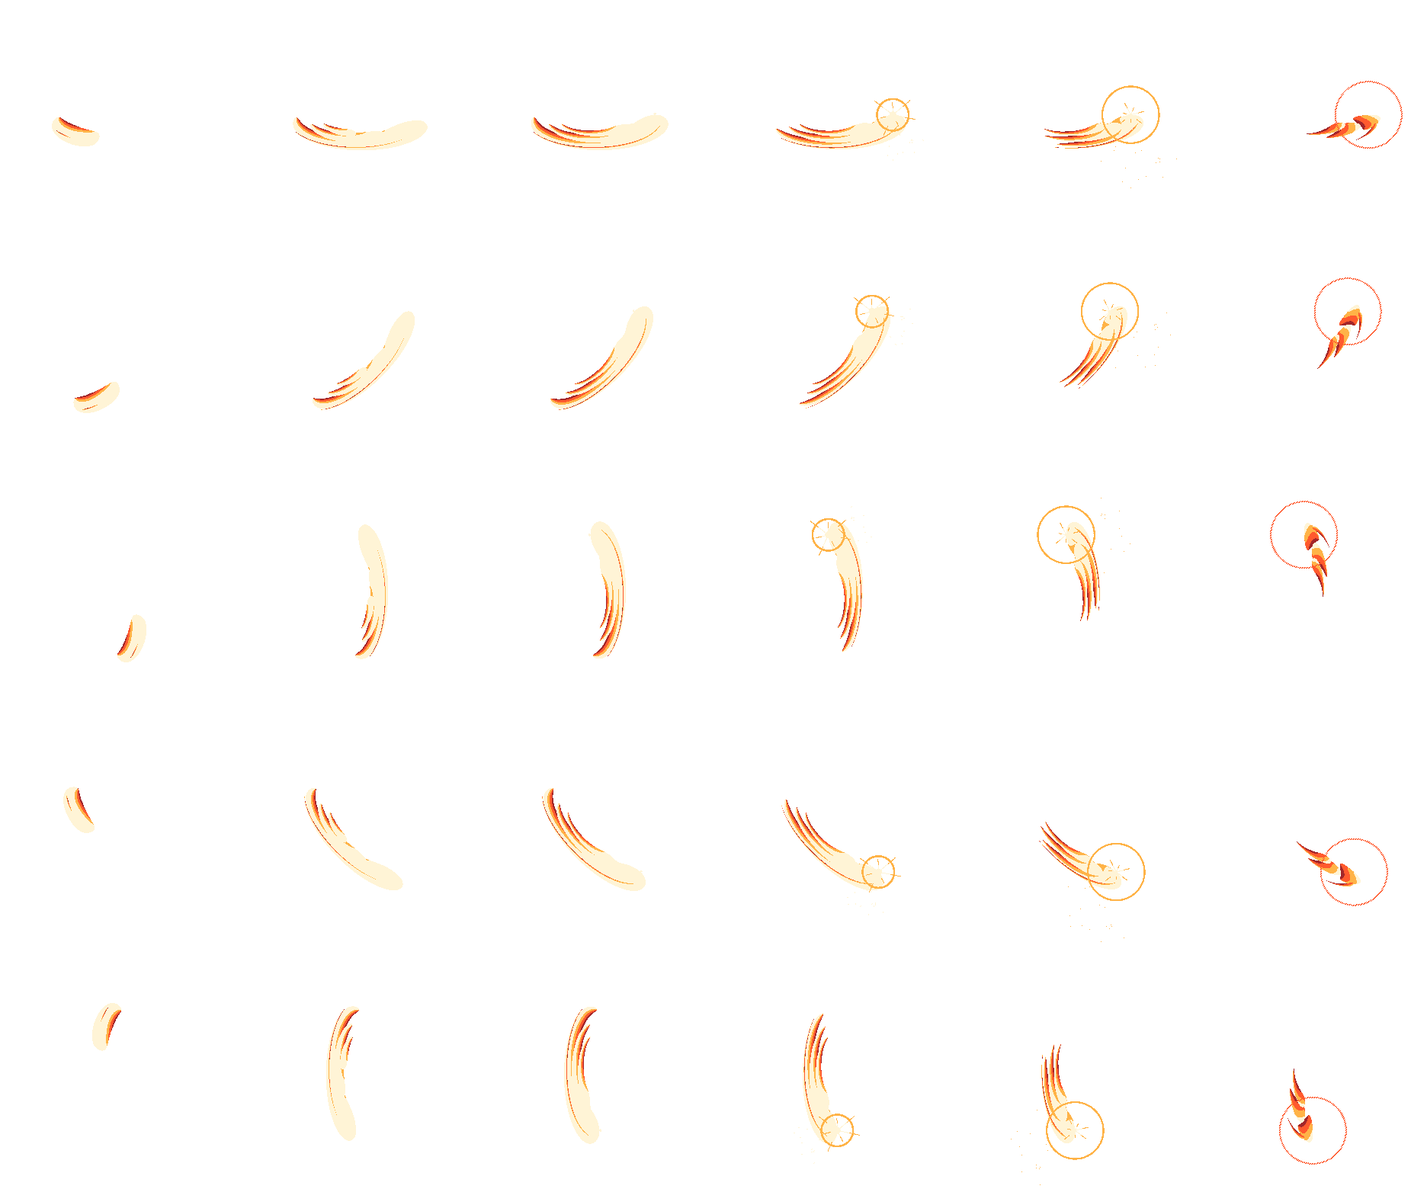
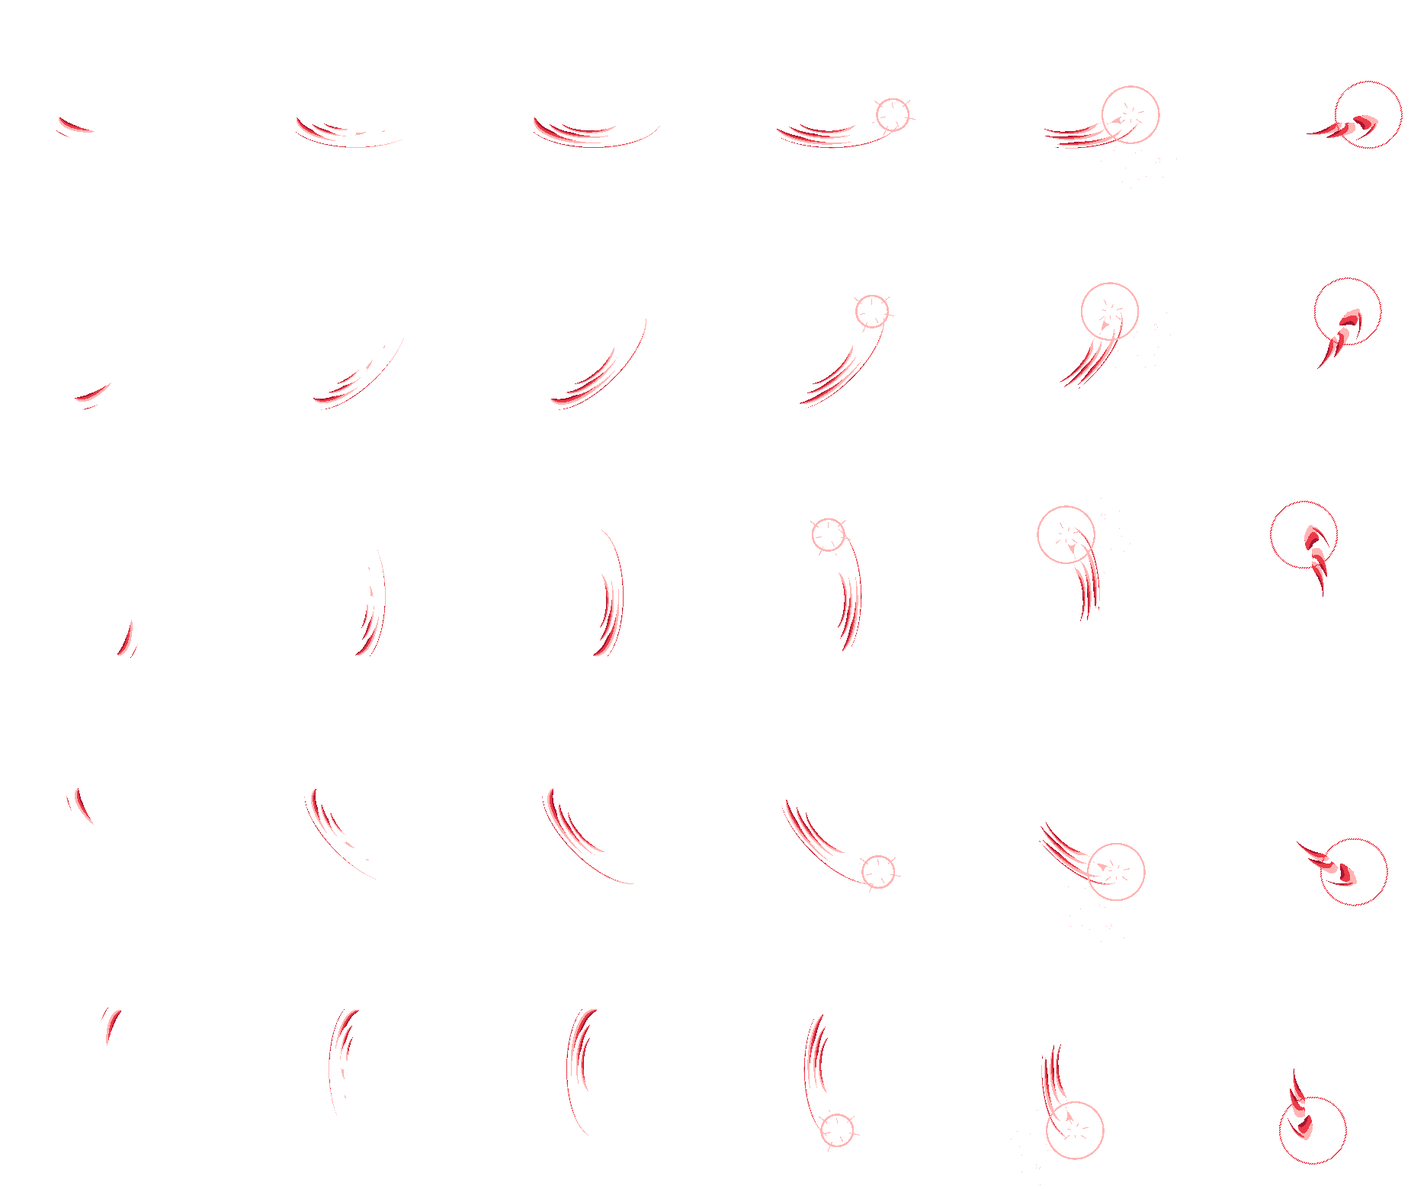
이펙트 v8 4차: 위험 구간 레드, 대시 색이 게이지·강화 단계를 따름, 작은 별 섬광, 처형·궁극기 블러

diff --git a/src/weapon.py b/src/weapon.py
@@ -395,6 +395,7 @@ class DashExecution:
         effects.spawn_ring(ex, ey, EXEC_COLOR, radius_max=190, life=0.3)
         effects.spawn_impact(ex, ey, 1.0, 0.0, 18, EXEC_COLOR, big=True)
         effects.spawn_flare(ex, ey, EXEC_COLOR, big=True, line=True)            # v8: 큰 별 섬광 + 화면을 가르는 붉은 빛줄기
+        effects.spawn_blur(ex, ey, EXEC_COLOR, p)                               # 가로로 번지는 블러
         effects.add_trauma(config.SHAKE_FINISHER * 1.5)
         effects.float_text(ex, ey + 120, '처형!', EXEC_COLOR, big=True, life=0.7)
         game_world.add_object(DashStreak((ex - 300, ey, ex + 300, ey), life=0.45, width=22), game_world.LAYER_EFFECT)
@@ -620,9 +621,10 @@ class Pipe:
         if big:                                          # 강한 공격: X자 베기 자국 두 개 + 퍼지는 고리 + 별 섬광(v8)
             effects.spawn_slash_marks(ex, ey, ex - p.x, ey - p.center[1], fx['damage_color'], big=True, count=2)
             effects.spawn_ring(ex, ey, fx['damage_color'])
-            effects.spawn_flare(ex, ey, color or fx['damage_color'])
+            effects.spawn_flare(ex, ey, color or effects.zone_glow(p))
         else:                                            # 맞을 때마다 적을 가로지르는 베기 자국 (다단 히트가 하나하나 보이게)
             effects.spawn_slash_marks(ex, ey, ex - p.x, ey - p.center[1], fx['damage_color'])
+            effects.spawn_flare(ex, ey, color or effects.zone_glow(p), small=True)      # v8: 작은 별 섬광 (대시 화풍)
         effects.request_hit_stop(config.HIT_STOP * stop * fx['stop'])
         effects.spawn_bloom(ex, ey, fx['damage_color'], big=big, strength=0.9 if big else 0.6)   # v7 빛 번짐
         p.swing_connected = True                         # 이번 휘두르기가 맞았다: 몸은 젖힘으로 되돌아가지 않는다
@@ -915,6 +917,13 @@ class Pipe:
         self.pass_hit = set()
         self.resolve_dash_strike(enhanced)               # 막 끝난 직후: 지나온 길을 한 번에 벤다
 
+    @property
+    def dash_color(self):
+        """이번 대시 공격의 색: 강화 일격이면 강화 단계 색, 아니면 게이지 구간 색."""
+        if self.owner.dash_strike_enhanced or self.owner.gauge.enhanced:
+            return config.ENHANCE_LEVEL_COLOR[max(1, min(3, self.level or self.owner.gauge.enhance_level))]
+        return config.ZONE_GLOW.get(self.owner.gauge.zone, config.ZONE_GLOW['NORMAL'])
+
     def _dash_strike_stats(self, enhanced):
         """대시 평타의 (반폭, 피해, 이펙트)."""
         import mutations
@@ -936,8 +945,11 @@ class Pipe:
                   shake=1.8 if enhanced else 1.2, blast=enhanced)
         effects.spawn_slash_marks(ex, ey, dx, dy, (255, 255, 255), big=True)   # 지나가며 긋는 큰 베기 자국
         variant, flip = effects.slash_variant(dx, dy)
-        effects.spawn('pipe-slash-enhanced3', ex - dx * 40, ey - dy * 40, flip=flip, duration=0.26, variant=variant)   # 적을 감싸는 큰 진홍 초승달
-        effects.spawn_flare(ex, ey, EXEC_COLOR)                                 # 별 섬광 + 큰 붉은 빛 (v8)
+        sheet = (('pipe-slash-enhanced' + effects.enh_suffix()) if enhanced else
+                 {'NORMAL': 'pipe-slash-awake', 'DEAD': 'pipe-slash-fade', 'OVERLOAD': 'pipe-slash-critical'}.get(
+                     self.owner.gauge.zone, config.ZONE_FX[self.owner.gauge.zone]['slash']))
+        effects.spawn(sheet, ex - dx * 40, ey - dy * 40, flip=flip, duration=0.26, variant=variant)   # 적을 감싸는 큰 초승달 (구간·강화 색)
+        effects.spawn_flare(ex, ey, self.dash_color)                           # 별 섬광 + 큰 빛 (구간·강화 색, 위험은 레드)
         return True
 
     def _dash_pass(self):
@@ -2411,6 +2423,7 @@ class Ultimate:
         p.invuln_left = max(p.invuln_left, config.ULT_INVULN)
         p.steady_left = max(p.steady_left, config.ULT_INVULN)   # 무적이지만 깜빡이지 않는다
         assets.play_sound('ult_cast')
+        effects.spawn_blur(*p.center, self.color, p)                            # 시전 순간에도 블러
         effects.float_text(p.x, p.y + config.PLAYER_HB_H + 70, self.name, self.color, big=True, life=0.9)
         game_world.add_object(ExecDim(color=(6, 8, 26), strength=config.ULT_DIM * 2, life=0.7), game_world.LAYER_TILES)
         self._nova(*p.center, duration=0.4)
@@ -2454,6 +2467,7 @@ class Ultimate:
         effects.request_flash(0.06)
         effects.add_trauma(0.8)
         effects.spawn_flare(cx, cy, self.color, big=True, line=True)            # v8: 큰 별 섬광 + 화면을 가르는 빛줄기
+        effects.spawn_blur(cx, cy, self.color, self.weapon.owner)               # 가로로 번지는 블러
         self._nova(cx, cy)
         assets.play_sound(f'ult_final_{self.weapon.weapon_id}')
 

diff --git a/src/effects.py b/src/effects.py
@@ -576,8 +576,60 @@ class ScreenLine:
                 assets.draw_rect_color(int(self.x - reach), int(self.y - ww // 2), int(reach * 2), ww, color)
 
 
-def spawn_flare(x, y, color, big=False, line=False):
+class BlurSmear:
+    """블러 느낌 (사용자 요청: 처형·궁극기): 가로로 길게 번지는 빛 띠 여러 겹 + 흰 속도선 + 주인공 잔상이 양옆으로 번졌다 모인다.
+    화면을 읽어 흐리는 것이 아니라 빛 층을 가로로 늘어놓아 만든다 (pico2d에는 흐림 효과가 없다)."""
+
+    def __init__(self, x, y, color, player=None, life=0.32, reach=620):
+        self.x, self.y, self.color, self.player, self.life, self.reach = x, y, color, player, life, reach
+        self.time = 0.0
+        self.lines = [(random.uniform(-reach, reach), random.uniform(-150, 150), random.uniform(60, 260)) for _ in range(26)]
+
+    def update(self, dt):
+        self.time += dt
+        if self.time >= self.life:
+            game_world.remove_object(self)
+
+    def draw(self):
+        t = self.time / self.life
+        k = (1.0 - t) ** 1.3 * (0.5 if options.reduce_flash else 1.0)
+        img = assets.image('light/bloom_256.png')
+        img.opacify(0.22 * k)
+        for row in (-70, 0, 70):                                       # 가로로 번지는 빛 띠
+            for off in range(-self.reach, self.reach + 1, 70):
+                assets.draw_image_added(img, int(self.x + off), int(self.y + row - img.h // 2), color=self.color, times=1)
+        img.opacify(1.0)
+        for lx, ly, ln in self.lines:                                   # 흰 속도선: 바깥으로 밀려나며 가늘어진다
+            x = self.x + lx * (1.0 + 0.5 * t)
+            w = int(ln * (1.0 - t))
+            if w >= 4:
+                assets.draw_rect_color(int(x - w / 2), int(self.y + ly) // 2 * 2, w, 2, (255, 255, 255), 0.75 * k)
+        p = self.player
+        if p is not None:                                               # 주인공 잔상이 양옆으로 번진다
+            for i, d in enumerate((22, 46, 74)):
+                for side in (-1, 1):
+                    sprites.draw_silhouette(*p._body_frame(), p.x + side * d * (1.0 - t), p.y, p.draw_face(), self.color,
+                                            max(0.0, 0.34 - 0.09 * i) * k)
+
+
+def spawn_blur(x, y, color, player=None):
+    game_world.add_object(BlurSmear(x, y, color, player), game_world.LAYER_EFFECT)
+
+
+def zone_glow(player):
+    """지금 주인공의 이펙트 색: 강화 중이면 강화 단계 색, 아니면 게이지 구간 색 (위험 90%+는 레드)."""
+    g = player.gauge
+    if g.enhanced:
+        return config.ENHANCE_LEVEL_COLOR[max(1, min(3, g.enhance_level))]
+    return config.ZONE_GLOW.get(g.zone, config.ZONE_GLOW['NORMAL'])
+
+
+def spawn_flare(x, y, color, big=False, line=False, small=False):
     """별 섬광: 큰 색 빛 원반 + 흰 여덟 갈래 별 + 불티. big은 1.5배가 아니라 정수 3배, line이면 화면을 가르는 빛줄기도."""
+    if small:                                                         # 보통 타격: 작은 별 하나와 옅은 빛
+        game_world.add_object(TintFx('flare-s', x, y, color), game_world.LAYER_EFFECT)
+        game_world.add_object(Bloom(x, y, color, False, 0.2, 0.9), game_world.LAYER_EFFECT)
+        return
     game_world.add_object(TintFx('flare', x, y, color, scale=3 if big else 2), game_world.LAYER_EFFECT)
     for _ in range(3 if big else 2):                                  # 진한 색 빛 원반 (겹쳐서 진하게)
         game_world.add_object(Bloom(x, y, color, True, 0.34, 1.0), game_world.LAYER_EFFECT)

diff --git a/tools/make_fx2.py b/tools/make_fx2.py
@@ -308,18 +308,20 @@ def ring_create(o):
     return Ring()
 
 
-FLARE_META = dict(size=[208, 208], origin=[104, 104], duration=0.4, fps=30, options=dict(seed=5))
+FLARE_META = dict(size=[208, 208], origin=[104, 104], duration=0.4, fps=30, options=dict(seed=5, k=1.0))
+FLARE_S_META = dict(size=[112, 112], origin=[56, 56], duration=0.3, fps=30, options=dict(seed=8, k=0.5))   # 보통 타격용 작은 별
 
 
 def flare_create(o):
     """별 섬광 (사용자가 준 INARI 그림): 크고 진한 색 빛 원반 한가운데에 흰 여덟 갈래 별, 둘레에 작은 반짝임과 불티.
     색 층 = 별의 색 가장자리·반짝임, 흰 심 = 별 가운데. 큰 빛 원반은 빛 층이 맡는다(게임이 색을 곱한다)."""
     core = o['layer'] == 'core'
+    z = o['k']                                               # 크기 (1 = 큰 별, 0.5 = 작은 별)
     rng = Rng(o['seed'])
     ps = Particles(rng, G)
-    ps.burst(SPARK, 0, 0, 16, (260, 760), (0.2, 0.42), up=60)
-    ps.burst(MOTE, 0, 0, 14, (120, 420), (0.22, 0.4), size=(0.8, 1.8))
-    twinkles = [(rng.range(-80, 80), rng.range(-70, 70), rng.range(0.02, 0.2), rng.range(3, 7)) for _ in range(12)]
+    ps.burst(SPARK, 0, 0, int(16 * z), (260 * z, 760 * z), (0.2, 0.42), up=60 * z)
+    ps.burst(MOTE, 0, 0, int(14 * z), (120 * z, 420 * z), (0.22, 0.4), size=(0.8, 1.8))
+    twinkles = [(rng.range(-80, 80) * z, rng.range(-70, 70) * z, rng.range(0.02, 0.2), rng.range(3, 7)) for _ in range(int(12 * z))]
     t = [0.0]
 
     class Flare:
@@ -333,15 +335,15 @@ def flare_create(o):
             if k > 0.05:
                 for i in range(8):
                     ang = TAU * i / 8
-                    ln = (86 if i % 2 == 0 else 46) * (0.55 + 0.45 * k) * (1.15 if i % 4 == 0 else 1.0)
-                    w = (9 if i % 2 == 0 else 6) * k
+                    ln = (86 if i % 2 == 0 else 46) * (0.55 + 0.45 * k) * (1.15 if i % 4 == 0 else 1.0) * z
+                    w = (9 if i % 2 == 0 else 6) * k * (0.5 + 0.5 * z)
                     c, s_ = math.cos(ang), math.sin(ang)
                     if core:
                         p.needle(0, 0, c * ln, s_ * ln, WHITE, max(1.0, w))
                     else:
                         p.needle(0, 0, c * ln * 1.06, s_ * ln * 1.06, G[2], w + 3.5)
                 if core:
-                    p.disc(0, 0, 9 * k + 1, WHITE)
+                    p.disc(0, 0, (9 * k + 1) * (0.4 + 0.6 * z), WHITE)
             for x, y, t0, arm in twinkles:                             # 둘레의 작은 십자 반짝임
                 v = (u - t0) / 0.16
                 if 0 <= v < 1 and core:
@@ -351,9 +353,9 @@ def flare_create(o):
             if not core:
                 ps.draw(p)
                 g = 1.0 if u < 0.1 else max(0.0, 1.0 - (u - 0.1) / 0.3)
-                p.glow(0, 0, 100, WHITE, 150 * g)                     # 큰 빛 원반 (진하게: 이 이펙트의 주인공)
-                p.glow(0, 0, 58, WHITE, 130 * g)
-                p.glow_ring(0, 0, 60 + 30 * out_expo(u / 0.3), 9, WHITE, 70 * g)
+                p.glow(0, 0, 100 * z, WHITE, 150 * g)                 # 큰 빛 원반 (진하게: 이 이펙트의 주인공)
+                p.glow(0, 0, 58 * z, WHITE, 130 * g)
+                p.glow_ring(0, 0, (60 + 30 * out_expo(u / 0.3)) * z, 9 * z, WHITE, 70 * g)
     return Flare()
 
 
@@ -368,6 +370,7 @@ TINTS = {
     'shock-ring-m': [(ring_meta(78), ring_create)],
     'shock-ring-l': [(ring_meta(150), ring_create)],
     'flare': [(FLARE_META, flare_create)],
+    'flare-s': [(FLARE_S_META, flare_create)],
 }
 
 

diff --git a/src/config.py b/src/config.py
@@ -539,7 +539,7 @@ ZONE_FX = {
     'AWAKE':    dict(slash='pipe-slash-awake', spark='hit-awake', spark_time=0.28, shake=1.3, stop=1.2, sound='swing_awake',
                      damage_color=(160, 255, 210)),
     'CRITICAL': dict(slash='pipe-slash-critical', spark='hit-critical', spark_time=0.32, shake=1.7, stop=1.5, sound='swing_critical',
-                     damage_color=(255, 150, 90)),
+                     damage_color=(255, 84, 92)),      # 11/24 사용자: 90% 이상은 레드
 }
 ZONE_FX['OVERLOAD'] = ZONE_FX['CRITICAL']
 ZONE_FX['DEAD'] = ZONE_FX['FADE']
@@ -556,6 +556,9 @@ ENHANCED_FX_BY_LEVEL = {
 # 충격 방사선 개수 (맞은 자리에서 퍼지는 선): 구간이 높을수록, 강화는 가장 많다. 추가 타격은 작게
 IMPACT_RAYS = {'FADE': 4, 'NORMAL': 6, 'AWAKE': 8, 'CRITICAL': 10, 'OVERLOAD': 10, 'DEAD': 0, 'enhanced': 12}
 IMPACT_RAYS_EXTRA = 3
+# 대시 공격·별 섬광의 색: 게이지 구간을 따른다 (강화 중이면 ENHANCE_LEVEL_COLOR). 11/24 사용자 요청
+ZONE_GLOW = {'DEAD': (143, 176, 216), 'FADE': (143, 176, 216), 'NORMAL': (46, 230, 214), 'AWAKE': (92, 220, 255),
+             'CRITICAL': (255, 64, 78), 'OVERLOAD': (255, 64, 78)}
 FINISHER_SLASH = 'pipe-slash-finisher'     # 3타는 구간과 상관없이 금색 큰 궤적
 # 주인공 몸 주위 오라 (반복 재생). 노멀(20~49%)은 없다. E 강화 중에는 구간 오라 위에 겹친다
 AURA_BY_ZONE = {'FADE': 'aura-fade', 'AWAKE': 'aura-awake', 'CRITICAL': 'aura-critical'}

diff --git a/src/player.py b/src/player.py
@@ -163,7 +163,7 @@ class Dash(_State):
             p.last_dash_path = (ox, oy, cx, cy)        # 지나온 직선
             if p.armed_dash == p.dash_count:           # 대시 중에 대시 공격을 걸었다: 지나온 자리에 붉은 궤적 (대시 v2)
                 import weapon
-                game_world.add_object(weapon.DashStreak(p.last_dash_path), game_world.LAYER_EFFECT)
+                game_world.add_object(weapon.DashStreak(p.last_dash_path, color=effects.zone_glow(p)), game_world.LAYER_EFFECT)
             p.dash_end()
             import mutations
             mutations.on_dash_end(p)                   # 변이 '포자 폭발'
@@ -466,7 +466,7 @@ class Player(TileBody):
         self.dash_refunded = False
         if self.state != 'DASH' and self.last_dash_path is not None:   # 대시 직후: 지나온 자리에 붉은 궤적
             import weapon
-            game_world.add_object(weapon.DashStreak(self.last_dash_path), game_world.LAYER_EFFECT)
+            game_world.add_object(weapon.DashStreak(self.last_dash_path, color=effects.zone_glow(self)), game_world.LAYER_EFFECT)
 
     # ----- 무기 -----
     def has_weapon(self, weapon_id):

diff --git a/tools/make_aura.py b/tools/make_aura.py
@@ -105,7 +105,7 @@ STYLES = {
                       amp=0.8, bias=0.1, rising=-1, embers=10, ember_rise=-46, ember_size=1, ground=0.5, gain=1.0, seed=11),
     "aura-awake": dict(kind="flame", ramp=["#f4fff9", "#a2f7d2", "#3fd6a4", "#1f8a78"], ember="#f4fff9", r0=26, vscale=0.42, stretch=2.4,
                        amp=0.95, bias=0.45, rising=1, embers=16, ember_rise=120, ember_size=1, ground=0.7, gain=1.0, seed=23),
-    "aura-critical": dict(kind="flame", ramp=["#fff4d6", "#ffb347", "#ff5a2e", "#a3262a"], ember="#ffe9a8", r0=30, vscale=0.52, stretch=2.6,
+    "aura-critical": dict(kind="flame", ramp=["#ffffff", "#ffb4b4", "#ec3a48", "#a81430"], ember="#ffd0d0", r0=30, vscale=0.52, stretch=2.6,
                           amp=1.15, bias=0.7, rising=1, embers=34, ember_rise=170, ember_size=2, ground=1.0, gain=1.15, seed=37),
     "aura-enhanced": dict(kind="spiral", ramp=["#ffffff", "#e6ccff", "#a46bff", "#5a2fb8"], ember="#ffffff", r0=40, vscale=0.62, stretch=1.5,
                           amp=0.9, bias=0.35, rising=1, embers=26, ember_rise=-110, ember_size=1, ground=0.6, gain=1.15, seed=51),

diff --git a/tools/fxkit.py b/tools/fxkit.py
@@ -38,7 +38,7 @@ RAMPS = {
     'haze': [hexc(c) for c in ('#0b3f52', '#0e7f93', '#2ee6d6', '#a8fff4', '#ffffff')],      # 기본 청록
     'fade': [hexc(c) for c in ('#27314a', '#4a6288', '#8fb0d8', '#d4e6ff', '#ffffff')],      # 페이드 (힘 빠진 회청)
     'awake': [hexc(c) for c in ('#0a4a6a', '#1496c8', '#5cdcff', '#c4f6ff', '#ffffff')],     # 각성 (밝은 하늘)
-    'critical': [hexc(c) for c in ('#5a1a08', '#c8501c', '#ffa23c', '#ffe6a8', '#ffffff')],  # 위험 (주황)
+    'critical': [hexc(c) for c in ('#4a0a1c', '#a81430', '#ec3a48', '#ffb4b4', '#ffffff')],  # 위험 (레드, 11/24 사용자)
     'violet': [hexc(c) for c in ('#2e1a6e', '#6a3fd0', '#a46bff', '#e6ccff', '#ffffff')],    # 강화 1 / 사슬
     'gold': [hexc(c) for c in ('#5a3608', '#b87a14', '#f0b432', '#ffecaa', '#ffffff')],      # 강화 2
     'crimson': [hexc(c) for c in ('#4a0a1c', '#a81430', '#ec3a48', '#ffb4b4', '#ffffff')],   # 강화 3·표식·처형

diff --git a/tools/make_slash_hq.py b/tools/make_slash_hq.py
@@ -50,7 +50,7 @@ def ramp(*cols):
 BLUE = ramp("#ffffff", "#e6fffb", "#2ee6d6", "#0b6a74")      # v7 A안: 흰 주 + 고대비 청록 (예전 파스텔 #cdf0ff·#78d2eb·#3c8cb4)
 DIM = ramp("#d9b4c4", "#a8657f", "#7a3a52", "#4a2238")
 TEAL = ramp("#ffffff", "#e8fff4", "#33e39e", "#0d6b55")      # v7: 각성 (흰 주 + 초록빛 청록)
-FIRE = ramp("#fff4d6", "#ffb347", "#ff5a2e", "#a3262a")
+FIRE = ramp("#ffffff", "#ffb4b4", "#ec3a48", "#a81430")       # 11/24 사용자: 위험(90%+)은 레드 (예전 주황 #ffb347·#ff5a2e)
 GOLD = ramp("#fffbe8", "#ffe08c", "#ff9a4a", "#b8502e")
 VIOLET = ramp("#ffffff", "#e6ccff", "#a46bff", "#5a2fb8")
 YELLOW = ramp("#ffffff", "#fff1b8", "#ffd35a", "#c98a1e")

diff --git a/docs/PROGRESS.md b/docs/PROGRESS.md
@@ -310,3 +310,4 @@
 2026-11-24 [Claude Code] 이펙트 제작 스킬 haze-fx와 도구 fxkit(사용자: '파이썬으로 찍어낸 블록 같다, pixelfx 방식을 채용해 이나리처럼 만드는 스킬을 만들자'): 색 층(0/255) + 빛 층, 가시·끊어진 고리·늘어나는 불티·도는 파편·번쩍이는 빛, 모아 보기 그림으로 보고 고치는 절차. 1차로 명중 불꽃 7종과 헤이즈 폭발을 다시 구움(13~24프레임, 시트가 재생 시간을 가짐). 게임 개발 지침 스킬 6종 추가 설치(audio-design·camera-systems·game-ai·procedural-gen·dialogue-systems·performance-optimization) / tools/(fxkit, make_fx2, make_fx, make_glow).py, .claude/skills/haze-fx/SKILL.md, src/effects.py, assets/effects/(hit-*, haze-blast), assets/light/glow_*, docs/*
 2026-11-24 [Claude Code] 이펙트 v8 2차: 실행 중 사각형으로 그리던 베기 자국(SlashMark)·충격 방사선(ImpactBurst)·충격 고리(ImpactRing)를 fxkit 두 겹 시트로 교체(회색조 색 층 + 흰 심, 게임이 공격 색을 곱함: cut-mark 8각도, impact-rays 8방향, shock-ring 3크기). 휘두르기 초승달은 그대로 둠 / tools/(fxkit, make_fx2).py, src/(effects, assets).py, assets/effects/(cut-mark*, impact-rays*, shock-ring-*), assets/light/glow_*, tests/test_pixel_assets.py, .claude/skills/haze-fx/SKILL.md
 2026-11-24 [Claude Code] 이펙트 v8 3차(사용자가 INARI 화면 4장을 주며 '더 화려하게, 대시 공격·궁극기가 아쉽다'): 별 섬광(큰 색 빛 원반 + 흰 여덟 갈래 별 + 불티, flare 시트), 화면을 가르는 빛줄기(ScreenLine), 대시 궤적을 흰 속도 줄기 + 일렁이는 색 띠 + 번지는 빛으로, 대시로 벨 때 적마다 큰 진홍 초승달 + 별 섬광, 처형·궁극기 마무리·큰 타격에 별 섬광 / tools/make_fx2.py, src/(effects, weapon).py, assets/effects/flare.*, assets/light/glow_flare.png
+2026-11-24 [Claude Code] 이펙트 v8 4차(사용자: '대시 공격 마음에 든다, 색은 게이지·강화 단계에 맞게, 90% 이상은 레드, 다른 이펙트도 대시 화풍으로, 처형·궁극기에 블러'): 위험 구간 색을 주황에서 레드로(타격 불꽃·초승달·오라·피해 숫자), 대시 궤적·초승달·별 섬광이 구간/강화 색(config.ZONE_GLOW)을 따름, 보통 타격에 작은 별 섬광(flare-s), 처형·궁극기 시전·마무리에 블러(BlurSmear: 가로 빛 띠 + 속도선 + 주인공 잔상) / src/(config, effects, weapon, player).py, tools/(fxkit, make_fx2, make_slash_hq, make_aura).py, assets/effects/(flare, flare-s, hit-critical, pipe-slash-critical*, aura-critical), assets/light/glow_*

diff --git a/docs/DECISIONS.md b/docs/DECISIONS.md
@@ -648,3 +648,4 @@
 - 2026-11-24 대시 공격 v2(사용자가 준 이나리 영상 참고): 무기 4종 공통 규칙은 player.arm_dash_attack + weapon.dash_mark. 대시 중·직후 공격을 누르면 DASH_MARK_WINDOW 0.7초 동안의 적중이 대시 공격이다 -> 첫 적중에 대시 한 칸 회복(대시-베기-대시로 이어 감), 적마다 표식 1개(한 대시에 하나), DASH_MARKS 3개면 처형(DASH_EXEC_DAMAGE 60 x 구간·공격 배율, 보스 x0.5, 느려짐 0.3초 + 배경만 어둡게(타일 층) + 큰 X). 표식은 DASH_MARK_TIME 4초. 철파이프 대시 평타는 대시가 끝날 때가 아니라 지나가는 순간 벤다(한 적에 한 번). 증강 '흐름'(id dashcut_refund)은 '깊은 낙인'(표식 2개씩)으로 바꿨다. 궤적은 붉은 DashStreak(강화면 단계 색 PathSlash도).
 - 2026-11-24 궁극기 v2(사용자 요청): 시전 순간 화면 정지(ULT_FREEZE)와 컷인 띠(assets/ui/ult_cutin.png, 이제 안 씀)를 없앴다 - 흐름을 끊지 않는다. 기본·대시·점프별 12종 대신 **무기마다 하나**: 안개 난무(PipeUlt)·록온 난사(PistolUlt, 움직일 수 있음)·유성 돌진(GauntletUlt, Gauntlet.rush를 빌려 이동)·사슬 감옥(ChainUlt, 끝나고 ULT_PRISON_HOLD 2.5초 묶음 + LinkNet). 피해 합(ULT_BASE_DAMAGE x ULT_HIT_MULT x ULT_HITS)·보스 상한·무적·게이지 안 오름은 그대로. 어둠은 타일 층(ExecDim)에 그려 캐릭터는 밝게 남는다.
 - 2026-11-24 이펙트 v8: 새 이펙트는 `haze-fx` 스킬 절차로 `tools/fxkit.py`에서 굽는다(색 시트 알파 0/255 + 빛 시트). 기준은 선과 빛·단계 연출·점무늬 금지·RAMPS 색만. 시트 json에 `duration`이 있으면 부르는 쪽 시간 대신 그 시간으로 재생한다. 실행 중 사각형으로 그리는 이펙트는 길이·방향이 실행 중에 정해지는 것만 남기고 시트로 옮긴다(순서: 타격·폭발(완료) → 베기 궤적 → 고리·방사선·베기 자국 → 궁극기·먼지). pixelfx는 방식만 참고한다는 11/23 결정은 그대로.
+- 2026-11-24 색: 위험 구간(90%+)은 **레드**(예전 주황). 대시 공격·별 섬광의 색은 config.ZONE_GLOW(페이드 회청·노멀 청록·각성 하늘·위험 레드), 강화 중이면 ENHANCE_LEVEL_COLOR. 표식·처형은 진홍 그대로. '블러'는 화면을 흐리는 것이 아니라 빛 층을 가로로 늘어놓고 속도선·잔상을 겹쳐 만든다(effects.BlurSmear, 처형·궁극기 전용).
